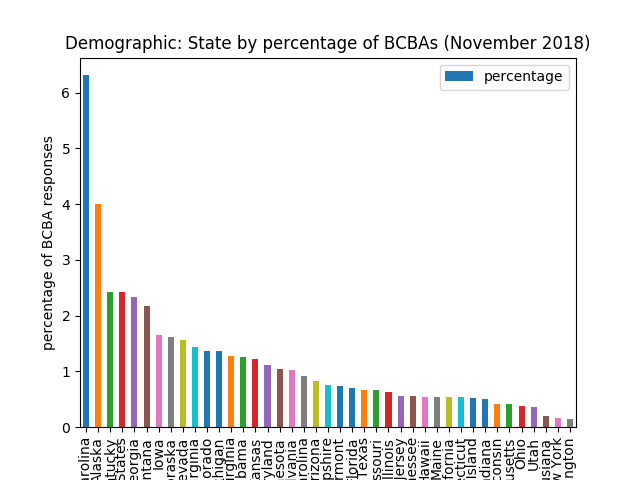
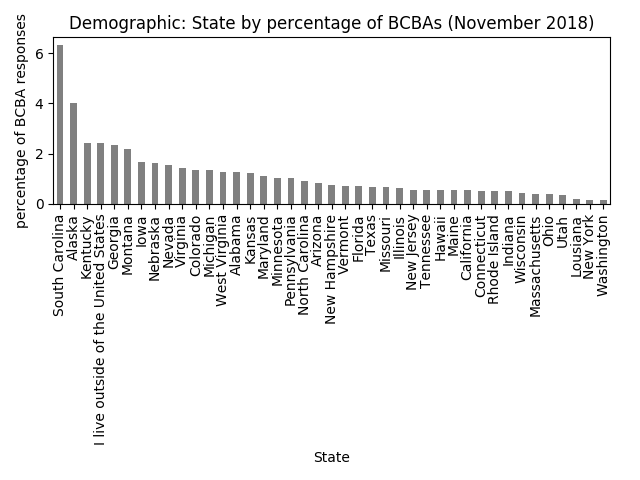
updated color and legend on state percentage graph

Changed region(s): [[0.0, 0.0312, 0.9688, 1.0]]

diff --git a/question_1.py b/question_1.py
@@ -117,10 +117,11 @@ def question1(df, demo_list):
 			state_calc['percentage'] = state_calc.apply(calc_perc , axis=1)
 			state_calc.sort_values(by='percentage', ascending=False, inplace=True)
 			print(state_calc)
-			state_calc.plot.bar(y='percentage')
+			state_calc.plot.bar(y='percentage', color='gray', legend=False)
 			_ = plt.title('Demographic: State by percentage of BCBAs (November 2018)')
 			_ = plt.xlabel('State')
 			_ = plt.ylabel('percentage of BCBA responses')
+			_ = plt.tight_layout()
 			_ = plt.savefig('State by percentage')
 			_ = plt.show()
 			_ = plt.close()
